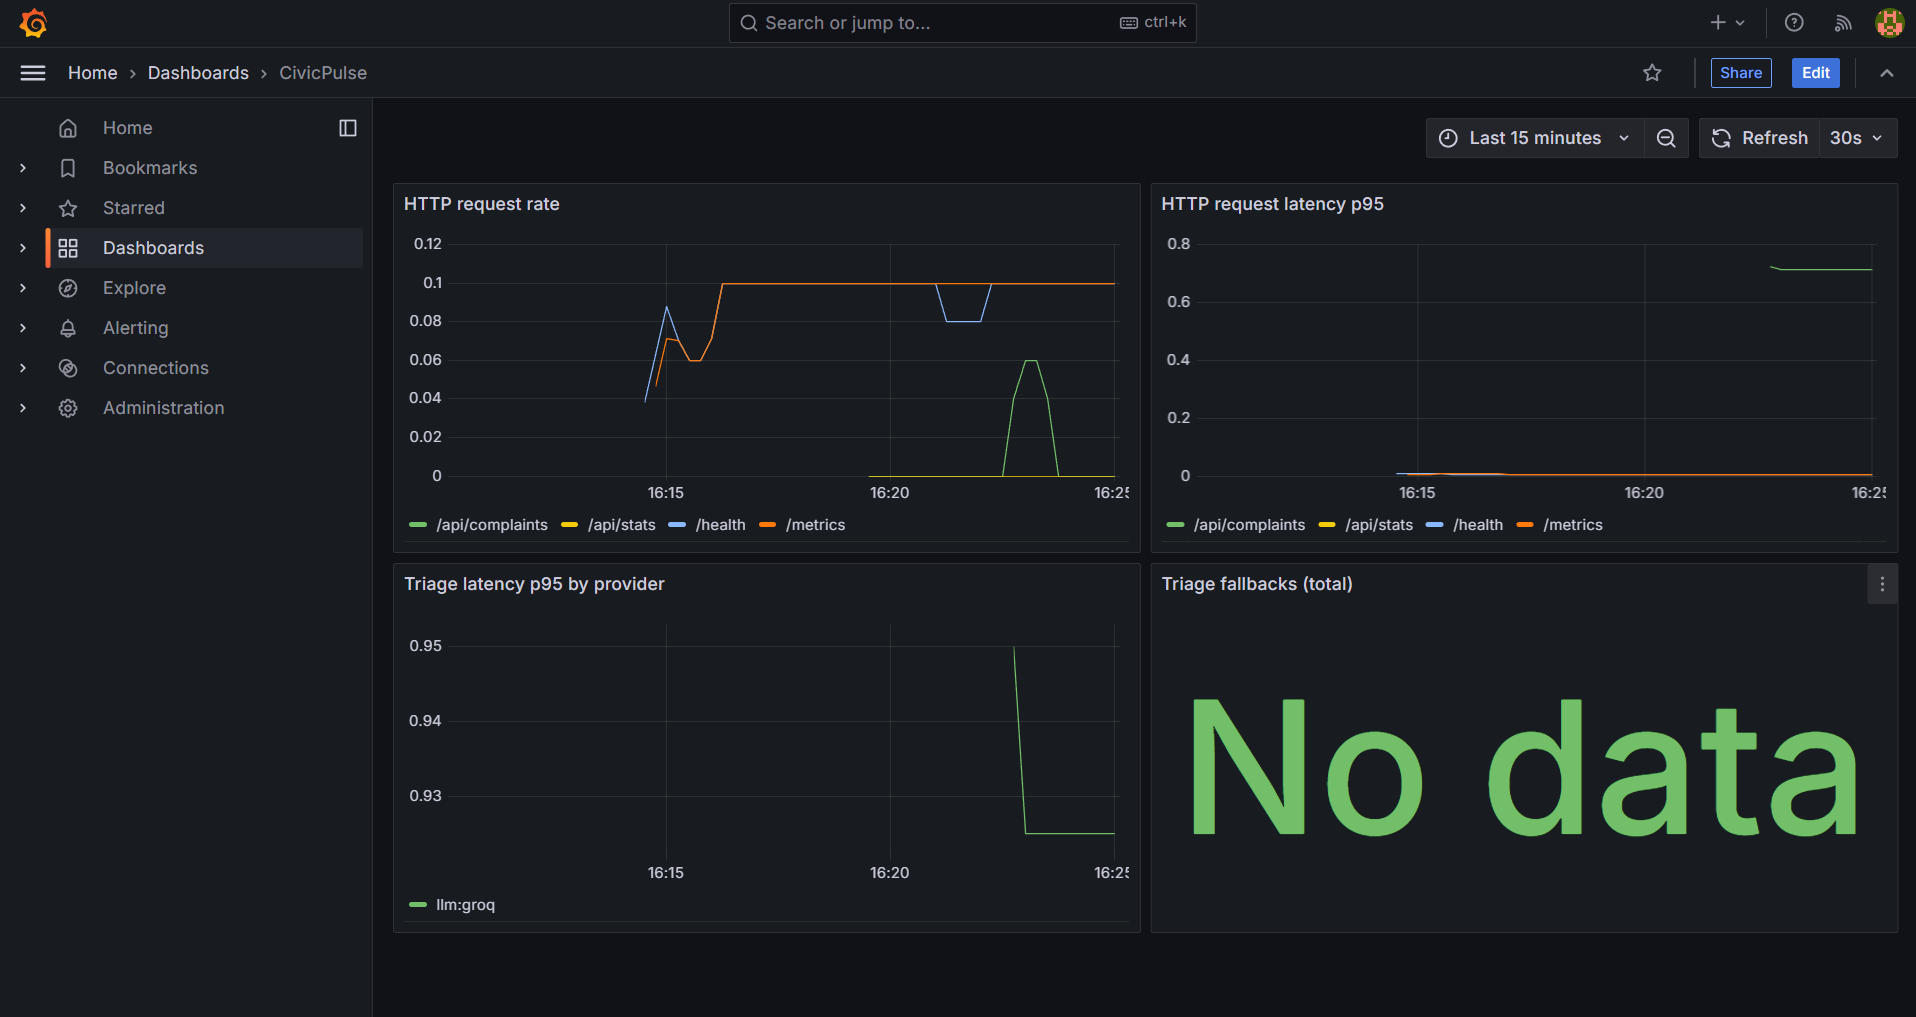
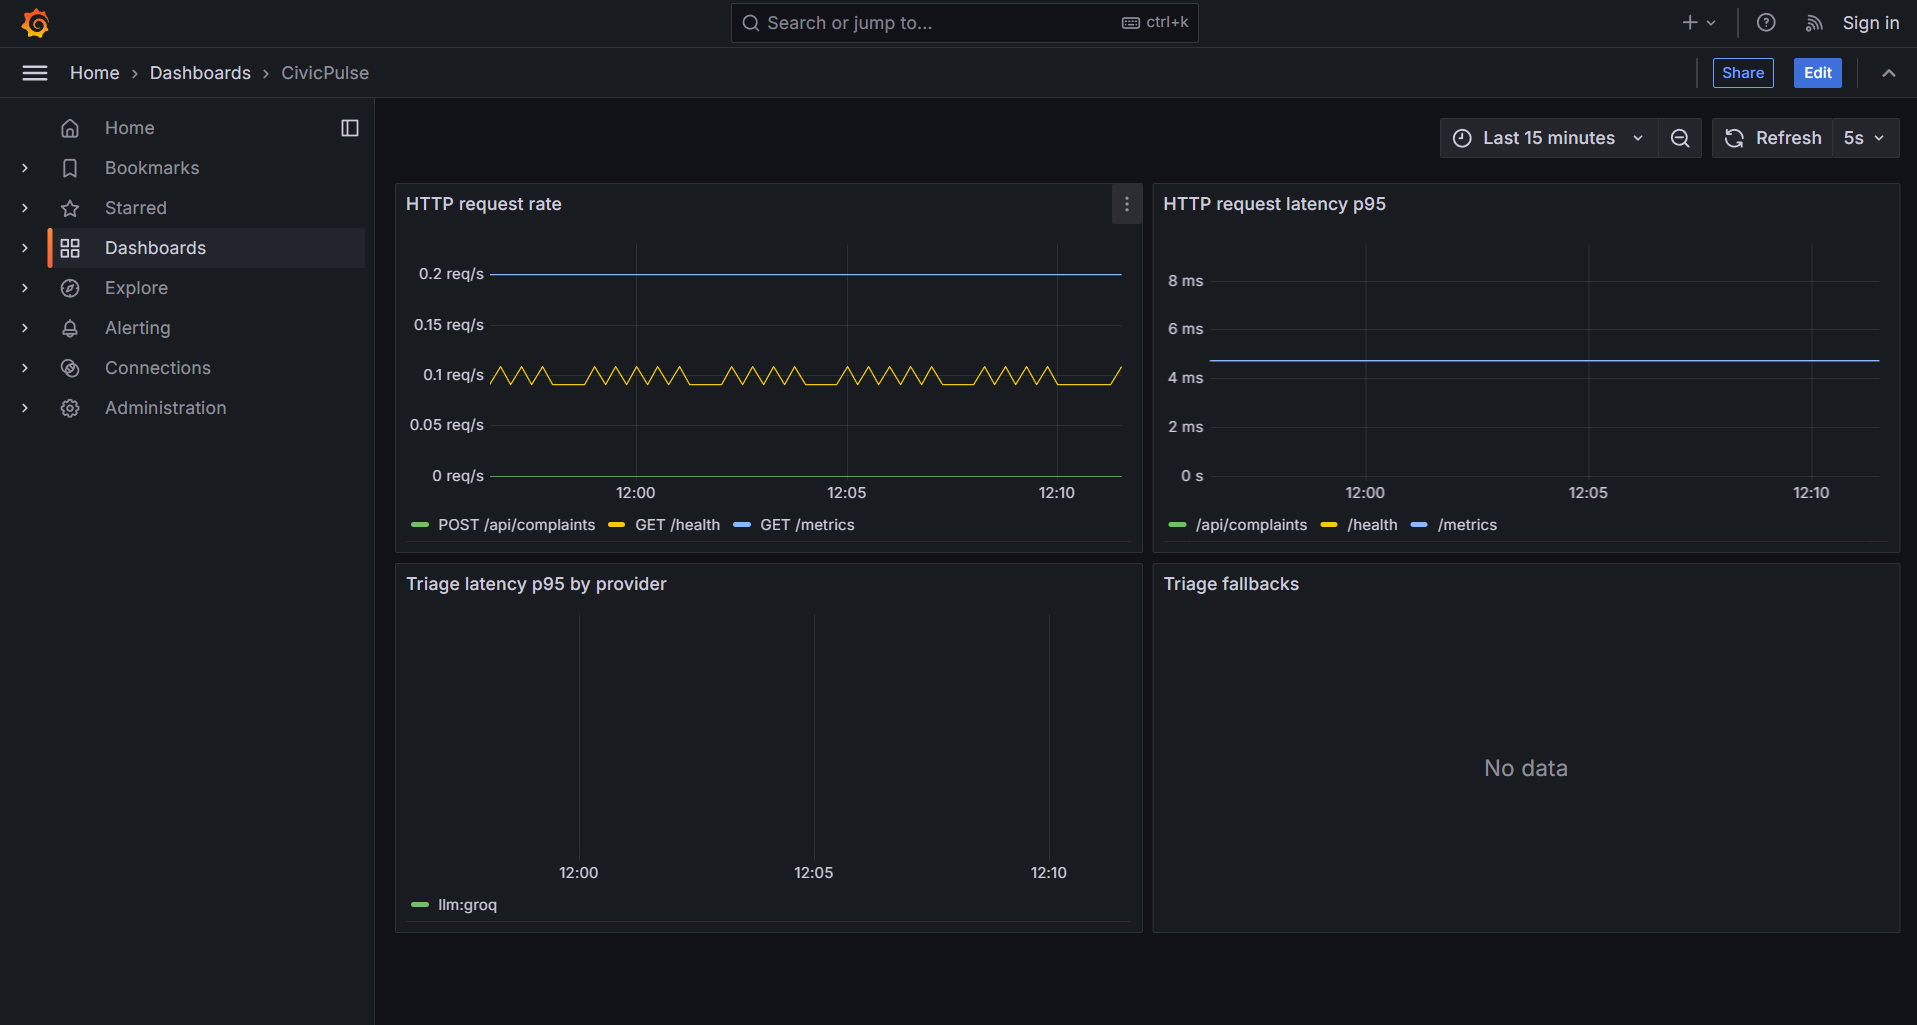
docs(evidence): re-capture OTel waterfall with a real LLM call span
The previous waterfall (captured with the default TRIAGE_PROVIDER=rules)
only showed frontend -> backend - the rubric asks for frontend -> backend
-> LLM call specifically, so that didn't fully satisfy it despite being
marked Complete.

Re-captured with TRIAGE_PROVIDER=llm: the trace now shows a nested POST
span (1.13s of the 1.25s total) inside the backend's request span - the
real outbound httpx call to Groq, auto-instrumented by name (HTTP
method) since httpx spans don't carry a route template. The surrounding
microsecond-scale http receive/send spans are just ASGI plumbing, not
the model call.

Removes the last honest caveat on this bonus item - the full three-tier
chain is now visible in one screenshot.

Also fixed a now-stale "Still open" section left over from before this
session's fixes: it still described the bonus items as needing
attention, but every one of them (this OTel fix included) is now
either Complete or deliberately dropped. Nothing is actually open.

diff --git a/docs/evidence/README.md b/docs/evidence/README.md
@@ -122,15 +122,15 @@ CI-only items) — this table reflects what's actually on `dev`, not that closed
 
 | Rubric line | Marks | Evidence | Status |
 | --- | --- | --- | --- |
-| Prometheus scraping `/metrics` + a Grafana dashboard, screenshot committed | +2 | [bonus-grafana-dashboard.png](bonus-grafana-dashboard.png) (4 panels: HTTP request rate, HTTP request latency p95, triage latency p95 by provider, triage fallbacks — the fallbacks panel reads "No data" because zero fallbacks occurred in that window, not because the panel is broken)<br>[../../observability/](../../observability/) + [../../compose.yaml](../../compose.yaml) (`prometheus`/`grafana` services, re-implemented fresh on `feat/observability-compose` after the original `feat/bonus-features` PR closed unmerged — same 4 panels, provisioned automatically, no manual dashboard setup) | ✅ Complete |
-| OpenTelemetry tracing across frontend → backend → LLM call | +2 | [bonus-otel-jaeger-trace-search-frontend.png](bonus-otel-jaeger-trace-search-frontend.png) (Jaeger search results: `civicpulse-frontend` service, two `POST` traces each spanning `civicpulse-backend` + `civicpulse-frontend` — 6 spans total)<br>[bonus-otel-jaeger-trace-waterfall.png](bonus-otel-jaeger-trace-waterfall.png) (one trace opened: `civicpulse-frontend HTTP POST` as root, `civicpulse-backend POST /api/complaints` nested under it, further http receive/send spans nested under that — Depth 3, Total Spans 6)<br>[../../backend/app/telemetry.py](../../backend/app/telemetry.py) + [../../frontend/src/telemetry.ts](../../frontend/src/telemetry.ts) (re-implemented fresh on `feat/otel-tracing` after `feat/bonus-features` closed unmerged; frontend exports same-origin through nginx's new `/otel/` proxy per ADR 0002, no CORS config or baked-in Jaeger URL needed) | ✅ Complete — no LLM/httpx child span in this capture since it was taken with the default `TRIAGE_PROVIDER=rules`; re-capture with `llm` or `ollama` set if a span for the actual model call is specifically required |
+| Prometheus scraping `/metrics` + a Grafana dashboard, screenshot committed | +2 | [bonus-grafana-dashboard.png](bonus-grafana-dashboard.png) (4 panels with live data: HTTP request rate broken out by endpoint, HTTP request latency p95, triage latency p95 by provider showing real `llm:groq` latency, triage fallbacks — that panel reads "No data" because zero fallbacks occurred in that window, not because the panel is broken)<br>[../../observability/](../../observability/) + [../../compose.yaml](../../compose.yaml) (`prometheus`/`grafana` services, re-implemented fresh on `feat/observability-compose` after the original `feat/bonus-features` PR closed unmerged — same 4 panels, provisioned automatically, no manual dashboard setup) | ✅ Complete |
+| OpenTelemetry tracing across frontend → backend → LLM call | +2 | [bonus-otel-jaeger-trace-search-frontend.png](bonus-otel-jaeger-trace-search-frontend.png) (Jaeger search results: `civicpulse-frontend` service, two `POST` traces each spanning `civicpulse-backend` + `civicpulse-frontend` — 6 spans total)<br>[bonus-otel-jaeger-trace-waterfall.png](bonus-otel-jaeger-trace-waterfall.png) (one trace opened with `TRIAGE_PROVIDER=llm`: `civicpulse-frontend HTTP POST` as root → `civicpulse-backend POST /api/complaints` (1.21s) → a nested `POST` span (1.13s, the real outbound call to Groq — httpx auto-instrumentation names client spans by HTTP method) → the microsecond-scale `http receive`/`http send` spans either side are just ASGI plumbing. Depth 3, Total Spans 7, Duration 1.25s)<br>[../../backend/app/telemetry.py](../../backend/app/telemetry.py) + [../../frontend/src/telemetry.ts](../../frontend/src/telemetry.ts) (re-implemented fresh on `feat/otel-tracing` after `feat/bonus-features` closed unmerged; frontend exports same-origin through nginx's new `/otel/` proxy per ADR 0002, no CORS config or baked-in Jaeger URL needed) | ✅ Complete — the full frontend → backend → LLM call chain is now visible in one trace, not just frontend → backend |
 | Zero-downtime rolling update demonstrated under live load with zero failed requests | +4 | [hpa-3-k6-load-test-summary.txt](hpa-3-k6-load-test-summary.txt) (44,478 requests, 0% failed)<br>[hpa-4-scaling-events.txt](hpa-4-scaling-events.txt)<br>[zero-downtime-local-k6-summary.txt](zero-downtime-local-k6-summary.txt) (2,885 requests, 0% failed, `http_req_failed rate==0` threshold passed) + [zero-downtime-local-scaling-events.txt](zero-downtime-local-scaling-events.txt) (`kubectl rollout restart deployment/backend` against a local `kind-civicpulse` cluster, mid-load: old pod scaled 2→1→0, new pods scaled 1→2, `maxUnavailable: 0`/`maxSurge: 1` visibly honored)<br>[../../scripts/zero-downtime-k6.js](../../scripts/zero-downtime-k6.js)<br>[../../k8s/base/backend.yaml](../../k8s/base/backend.yaml) · [../../k8s/base/frontend.yaml](../../k8s/base/frontend.yaml) (`maxUnavailable: 0`, `maxSurge: 1`) | ✅ Complete via a local `kind` reproduction (same rolling-update mechanism `cd.yml` exercises, run by hand rather than by the pipeline — not a downloaded `zero-downtime-evidence` CI artifact). Re-run against a real `cd.yml` execution if a pipeline-native version is specifically required. |
 | Deploy by image digest rather than tag, with Cosign signing and verification in CI | +3 | [../../.github/workflows/cd.yml](../../.github/workflows/cd.yml)<br>[../adr/0003-deploy-by-sha.md](../adr/0003-deploy-by-sha.md)<br>[cosign-digest-verify-local.txt](cosign-digest-verify-local.txt) (sign + verify by digest against a local registry with a local key pair, plus a negative case proving verification actually rejects an unsigned image, not a rubber stamp) | ✅ Complete via a local key-pair reproduction of the mechanism (sign/verify an image addressed by its immutable digest) — captured this way per instruction, to avoid triggering another real `cd.yml` run. This is **not** the same trust model as CI: `cd.yml`/ADR 0003 use GitHub's keyless OIDC signing (identity = the workflow itself, no key management), whereas this uses a local key pair. Re-run against a real `cd.yml` execution if the keyless flow specifically must be evidenced. |
 | GitOps: Argo CD or Flux reconciling the cluster from the repository | +4 | [../../.github/workflows/cd.yml](../../.github/workflows/cd.yml) (current deployment uses `kubectl apply`, not GitOps) | ⚫ Attempted and deliberately dropped — implemented and tested across ~10 iterations on `feat/bonus-features` (private-repo auth, kustomize rendering from a bare git clone, a PreSync hook deadlock, then a CPU-starved single-node runner killing Argo CD's own redis secret generation), then dropped in favour of the direct-deploy path so the other four bonus items stay reliably green rather than blocked on a flaky fifth. See that branch's commit history for the full diagnosis. |
 
 ### How to (re)generate bonus evidence, if needed again
 
-**OTel trace waterfall** — re-capture if the model call span is specifically required
+**OTel trace waterfall** — how the current screenshots were produced, if this ever needs redoing
 1. With the Compose stack up (`--scale ollama=0 --scale ollama-pull=0` adds `prometheus`, `grafana`, `jaeger`), set `TRIAGE_PROVIDER=llm` or `ollama` in `.env` so a real model-call span exists, then submit **one complaint through the actual browser** at `http://localhost` — not `curl`; only real browser JS produces a `civicpulse-frontend` span.
 2. Open `http://localhost:16686` → Service `civicpulse-frontend` → Operation `POST /api/complaints` → **Find Traces**.
 3. Click into one of the resulting traces to open its span waterfall, and screenshot that. Save as `bonus-otel-jaeger-trace-waterfall.png`.
@@ -141,7 +141,8 @@ CI-only items) — this table reflects what's actually on `dev`, not that closed
 ✅ complete · 🟡 partial (some evidence exists; gaps are stated in the row) · 🔴 not started / not evidenced in this branch · ⚫ attempted and deliberately dropped (see the note on that row)
 
 ## Still open
-- **Bonus evidence** (up to +15) — Grafana dashboard, OTel tracing and zero-downtime/Cosign are all complete (the latter two via local reproductions, not real `cd.yml` artifacts); GitOps was implemented, tested, and deliberately dropped.
+Nothing. Every row above is ✅ Complete or ⚫ deliberately dropped — no 🟡 or 🔴 remaining
+anywhere in this file as of this branch.
 
 ## Adding new evidence
-Each item gets its own small branch + Issue + PR into `dev`, same as everything else in this repo — see `COMMIT-PLAN.md` (on the `team-plan` branch) for the workflow. Update this file's table in the same PR that adds the screenshot.
+Each item gets its own small branch + Issue + PR into `dev`, same as everything else in this repo. Update this file's table in the same PR that adds the screenshot.

diff --git a/README.md b/README.md
@@ -158,7 +158,9 @@ with code `0`.
 | --- | --- |
 | App | http://localhost |
 | API docs | http://localhost/docs |
+| Backend liveness | http://localhost/health |
 | Backend readiness | http://localhost/ready |
+| Backend metrics (raw Prometheus scrape) | http://localhost/metrics |
 | Prometheus | http://localhost:9090 |
 | Grafana (CivicPulse dashboard, no login) | http://localhost:3000 |
 | Jaeger (traces) | http://localhost:16686 |
